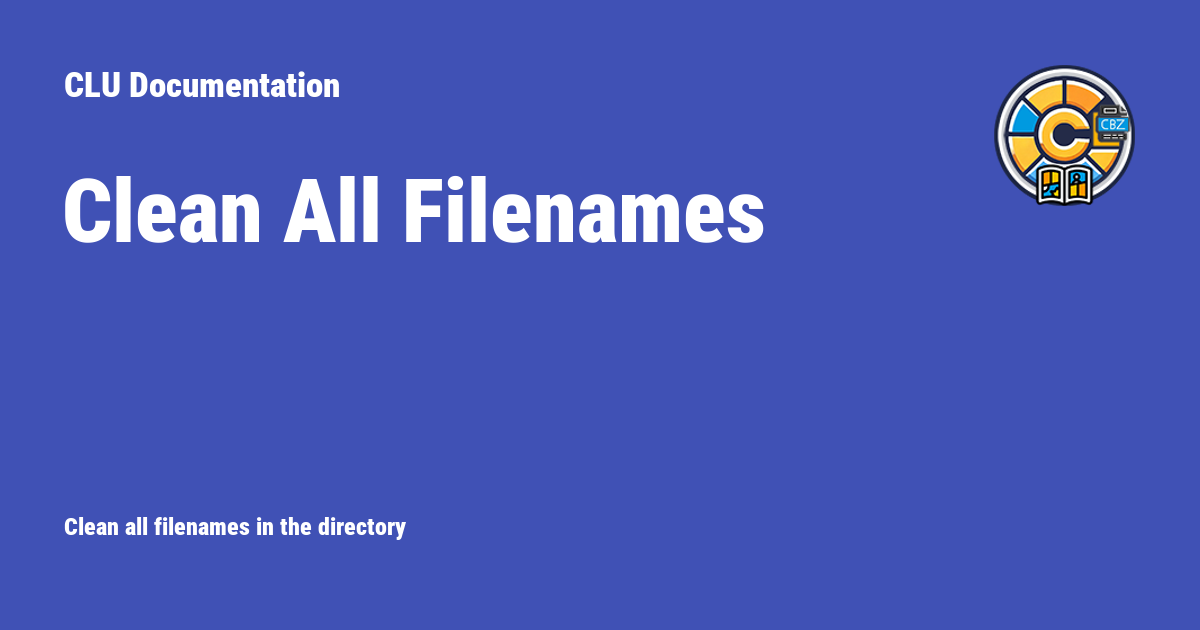
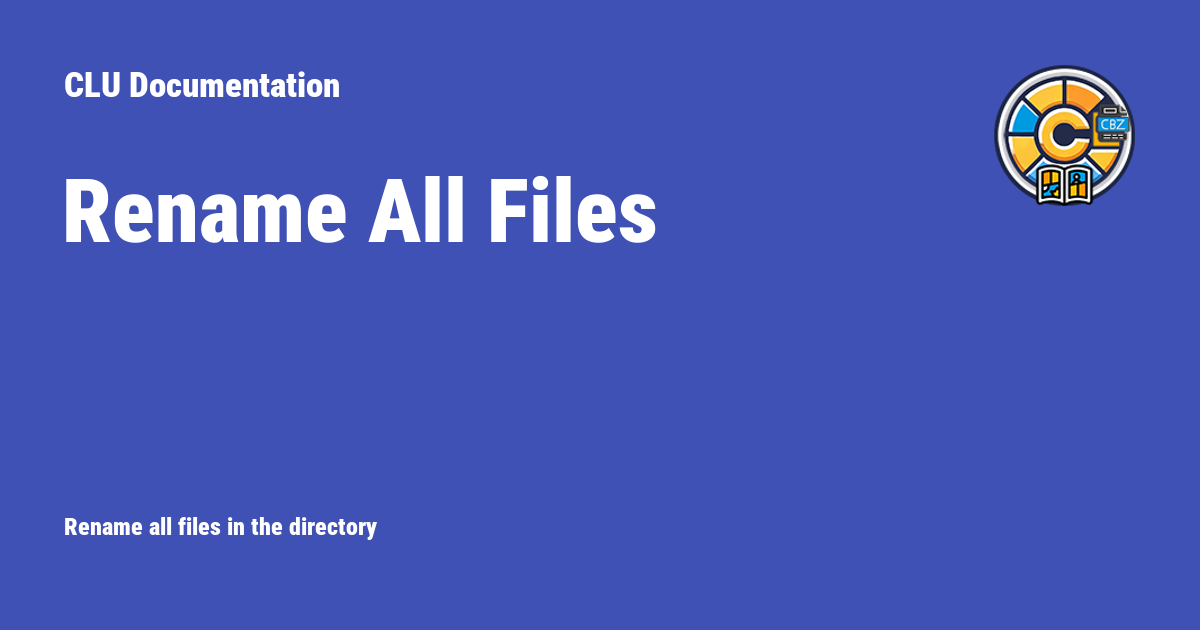
Revised Metadata Links

Changed region(s): [[0.0308, 0.2714, 0.6475, 0.3921], [0.0617, 0.8143, 0.3392, 0.8746]]

diff --git a/docs/features/app-settings/file-settings.md b/docs/features/app-settings/file-settings.md
@@ -18,19 +18,28 @@ This is the most extensive set of features and will only be applicable if [folde
 
 **IGNORED EXTENSIONS:** File types listed here will be ignored by the file monitoring process. Many of these file types are `temp`file types and should be ignore. However, if you want to have others files in the WATCH folder and not have them processed with your enabled options - add those extenison types here.
 
-**Auto CBZ Conversion:** If enabled, when CBR files are downloaded, this will auto-convert them to CBZ
+**Auto-Convert to CBZ:** If enabled, when CBR files are downloaded, this will auto-convert them to CBZ
 
-**Auto ZIP Extraction:** If enabled, when ZIP files are added to your WATCH folder, this will automatically extract them. This does not create folders. It uses the structure within the ZIP file.&#x20;
+**Auto-Unpack ZIP Files:** If enabled, when ZIP files are added to your WATCH folder, this will automatically extract them. This does not create folders. It uses the structure within the ZIP file.&#x20;
 
 For ZIP only, this specifically bypasses the IGNORED EXTENSIONS.
 
-**Processing Sub-Directories:** If enabled, this will perform monitoring functions on sub-directories within your WATCH folder. For example, if you have `/WATCH/archive01.zip` and it is auto-extracted to `/WATCH/archive`each file will be processed and moved to `/TARGET`.
+**Process Sub-Directories:** If enabled, this will perform monitoring functions on sub-directories within your WATCH folder. For example, if you have `/WATCH/archive01.zip` and it is auto-extracted to `/WATCH/archive`each file will be processed and moved to `/TARGET`.
 
-**Moving Sub-Directories:** If enabled, this will preserve any sub-directories in your `/WATCH` folder when they are moved to your `TARGET` folder. For example, if you have `/WATCH/archive01.zip` and it is auto-extracted to `/WATCH/archive`each file will be processed and moved to `/TARGET/archive`.
+**Autu-Move Sub-Directories:** If enabled, this will preserve any sub-directories in your `/WATCH` folder when they are moved to your `TARGET` folder. For example, if you have `/WATCH/archive01.zip` and it is auto-extracted to `/WATCH/archive`each file will be processed and moved to `/TARGET/archive`.
 
-!!! info
-    To Do: Hide these in settings if folder monitoring is not enabled or inform user that folder monitoring is not enabled.
+![Consolidate Single-File Directories](../../assets/settings/consolidate.png){: .center-image}
 
+**Consolidate Single-File Directories:** If enabled, this will attempt to consolidate line-named single-file directories into a single folder when they are moved from **WATCH** to **TARGET**. This is handy for processing manually downloaded files from newsgroups. For example:
+```
+/PEP Comics 140/PEP Comics 140.cbz
+/PEP Comics 141/PEP Comics 142.cbz
+/PEP Comics 142/PEP Comics 142.cbz
+```
+Will all be place in a single directory:
+```
+/PEP Comics/
+```
 **Auto Cleanup Orphan Files:** If you are using the monitoring and [Chrome Extension](../../features/file-downloads/setup.md) for downloads, failed downloads will be removed at regular intervals.
 
 **Cleanup Interval (hours):** Set the timing for removing orphaned files.

diff --git a/docs/features/file-management/comicvine.md b/docs/features/file-management/comicvine.md
@@ -4,7 +4,7 @@ description: How to get metadata and create ComicInfo.xml files
 
 # ComicVine Metadata
 
-If you have entered a [Commicvine API Key](../app-settings/download-settings.md#metadata-api-configuration) in settings, you'll see an additional icon in the File Manager. Clicking the <i class="bi bi-book fs-2 text-success"></i> icon will beging searching for metadata from ComicVine.
+If you have entered a [Commicvine API Key](../app-settings/metadata.md) in settings, you'll see an additional icon in the File Manager. Clicking the <i class="bi bi-book fs-2 text-success"></i> icon will beging searching for metadata from ComicVine.
 
 !!! info "Single Issue Metadata Only"
     The **ComicVine** feature only searches for metadata for a single issue. If you have multiple issues in a directory, you will need to use the [GCD Database Method](../gcd-settings/index.md) feature to process multiple issues. [ComicRackCE](https://github.com/maforget/ComicRackCE) should be your first choice for performing large metadata updates if you want to use ComicVine.
@@ -25,7 +25,7 @@ Clicking the <i class="bi bi-book fs-2 text-success"></i> will begin searching f
 
 ![ComicVine Settings](../../assets/file/comicvine-settings.png){: .center-image}
 
-Additional settings can be found in the [Download Settings --> Metadata API Configuration](../app-settings/download-settings.md#metadata-api-configuration).
+Additional settings can be found in the [Metadata Settings](../app-settings/metadata.md).
 
 ### Metadata Added on File Move
 
@@ -36,8 +36,4 @@ If enabled, when you move a file to a new location the metadata will be applied 
 
 ### File Renamed when Metadata is Added
 
-If this feature is enabled, when a `ComicInfo.xml` file is generated by ComicVine, the file will be renamed to match your configured [Custom Rename Pattern](../app-settings/file-settings.md#custom-rename-pattern-settings).
-
-### File Moved when Metadata is Added
-
-If this feature is enabled, when a `ComicInfo.xml` file is generated by ComicVine, the file will be moved to match your configured [Custom Move Pattern](../app-settings/download-settings.md#custom-move-pattern).
+If this feature is enabled, when a `ComicInfo.xml` file is generated by ComicVine, the file will be renamed to match your configured [Custom Rename Pattern](../app-settings/file-settings.md#custom-naming-settings).

diff --git a/docs/features/directory-features/rename.md b/docs/features/directory-features/rename.md
@@ -1,10 +1,10 @@
 ---
-description: Clean all filenames in the directory
+description: Rename all files in the directory
 ---
 
-# Clean All Filenames
+# Rename All Files
 
-![Clean All Filenames](../../assets/directory/rename01.png){: .center-image }
+![Rename All Files](../../assets/directory/rename01.png){: .center-image }
 
 Rename (Clean) Filenames is a directory based feature that allows you to clean all filenames in a directory and any sub-directories. It is accessed via the <i class="bi bi-input-cursor-text fs-2 text-primary"></i> icon to the right of the directory name in the File Manager.
 
@@ -16,9 +16,9 @@ Currently this function does 5 things to all files in a directory and any sub-di
 4. Removes any text / characters after "filename issue (year)"
 5. Removes any extra spaces before the file extension
 
-The pattern used for renaming is `{Series Name} {Issue Number} ({Year})`
+The default pattern used for renaming is `{Series Name} {Issue Number} ({Year})`
 
-[Mylar3](https://mylarcomics.com/) and [ComicRackCE](https://github.com/maforget/ComicRackCE) should be your first choice for performing these actions, but I wanted something I could easily run on my manual downloads directory or repair in a one-off method.
+You can define custom naming patterns in [File Settings](../app-settings/file-settings.md#custom-naming-settings).
 
 Oftentimes series archives or torrent files will have numerous naming patterns with information in parenthesis, brackets, before the year, after and all over the place. I continuously update these to handle as many as I encounter.
 

diff --git a/docs/features/collection/index.md b/docs/features/collection/index.md
@@ -42,7 +42,7 @@ This section will display issues that have been started but not completed. Click
 
 ### Discover
 
-This feature takes your reading history and "Want to Read" list and uses it to generate personalized recommendations for you. Recommendations are manually triggerer, so you can manage how often they run and use them when you want to find something new to read. You'll need to enter an API in [Recommendations](../app-settings/recommendations.md) to use this feature.
+This feature takes your reading history and "Want to Read" list and uses it to generate personalized recommendations for you. Recommendations are manually triggerer, so you can manage how often they run and use them when you want to find something new to read. You'll need to enter an API in [Recommendations](../app-settings/personalization.md#recommendations) to use this feature.
 
 ### Recently Added
 

diff --git a/docs/features/file-management/rename.md b/docs/features/file-management/rename.md
@@ -24,7 +24,7 @@ In all directory listings, you'll see a <i class="bi bi-input-cursor-text text-i
 
 ![Rename All Files in Directory](../../assets/file/rename-all.png){: .center-image}
 
-Clicking this will run the same renaming functions detailed on [Clean All Filenames](../directory-features/clean.md "mention"). This let's you easily run this feature as you are browsing your folders of if you manually add bulk issues or don't use the [folder-monitoring](../folder-monitoring/index.md "mention") features.
+Clicking this will run the same renaming functions detailed on [Rename All Files](../directory-features/rename.md "mention"). This let's you easily run this feature as you are browsing your folders of if you manually add bulk issues or don't use the [folder-monitoring](../folder-monitoring/index.md "mention") features.
 
 ### Remove Text from Files
 

diff --git a/docs/features/file-management/metron.md b/docs/features/file-management/metron.md
@@ -6,7 +6,7 @@ description: How to get metadata and create ComicInfo.xml files
 
 ![Metron Info](../../assets/settings/metron.png){: .center-image}
 
-If you have entered a [Metron Username and Password](../app-settings/download-settings.md#metadata-api-configuration) in settings, Metron will be used to search for metadata when moving issues.
+If you have entered a [Metron Username and Password](../app-settings/metadata.md) in settings, Metron will be used to search for metadata when moving issues.
 
 !!! info "Single Issue Metadata Only"
     The **Metron** feature only searches for metadata for a single issue. If you have multiple issues in a directory, you will need to use the [GCD Database Method](../gcd-settings/index.md) feature to process multiple issues.

diff --git a/docs/features/folder-monitoring/features.md b/docs/features/folder-monitoring/features.md
@@ -21,7 +21,9 @@ Default file extensions are:
 
 ## Renaming
 
-This feature is enabled by default and will be running when monitoring is enabled. This applies the same renaming logic outlined in the [Clean All Filenames](../directory-features/clean.md) section to any file added to the directory.
+This feature is enabled by default and will be running when monitoring is enabled. 
+
+This applies the same renaming logic outlined in the [Rename All Files](../directory-features/rename.md) section to any file added to the directory.
 
 Files will be moved to the **TARGET** directory when they are renamed.
 
